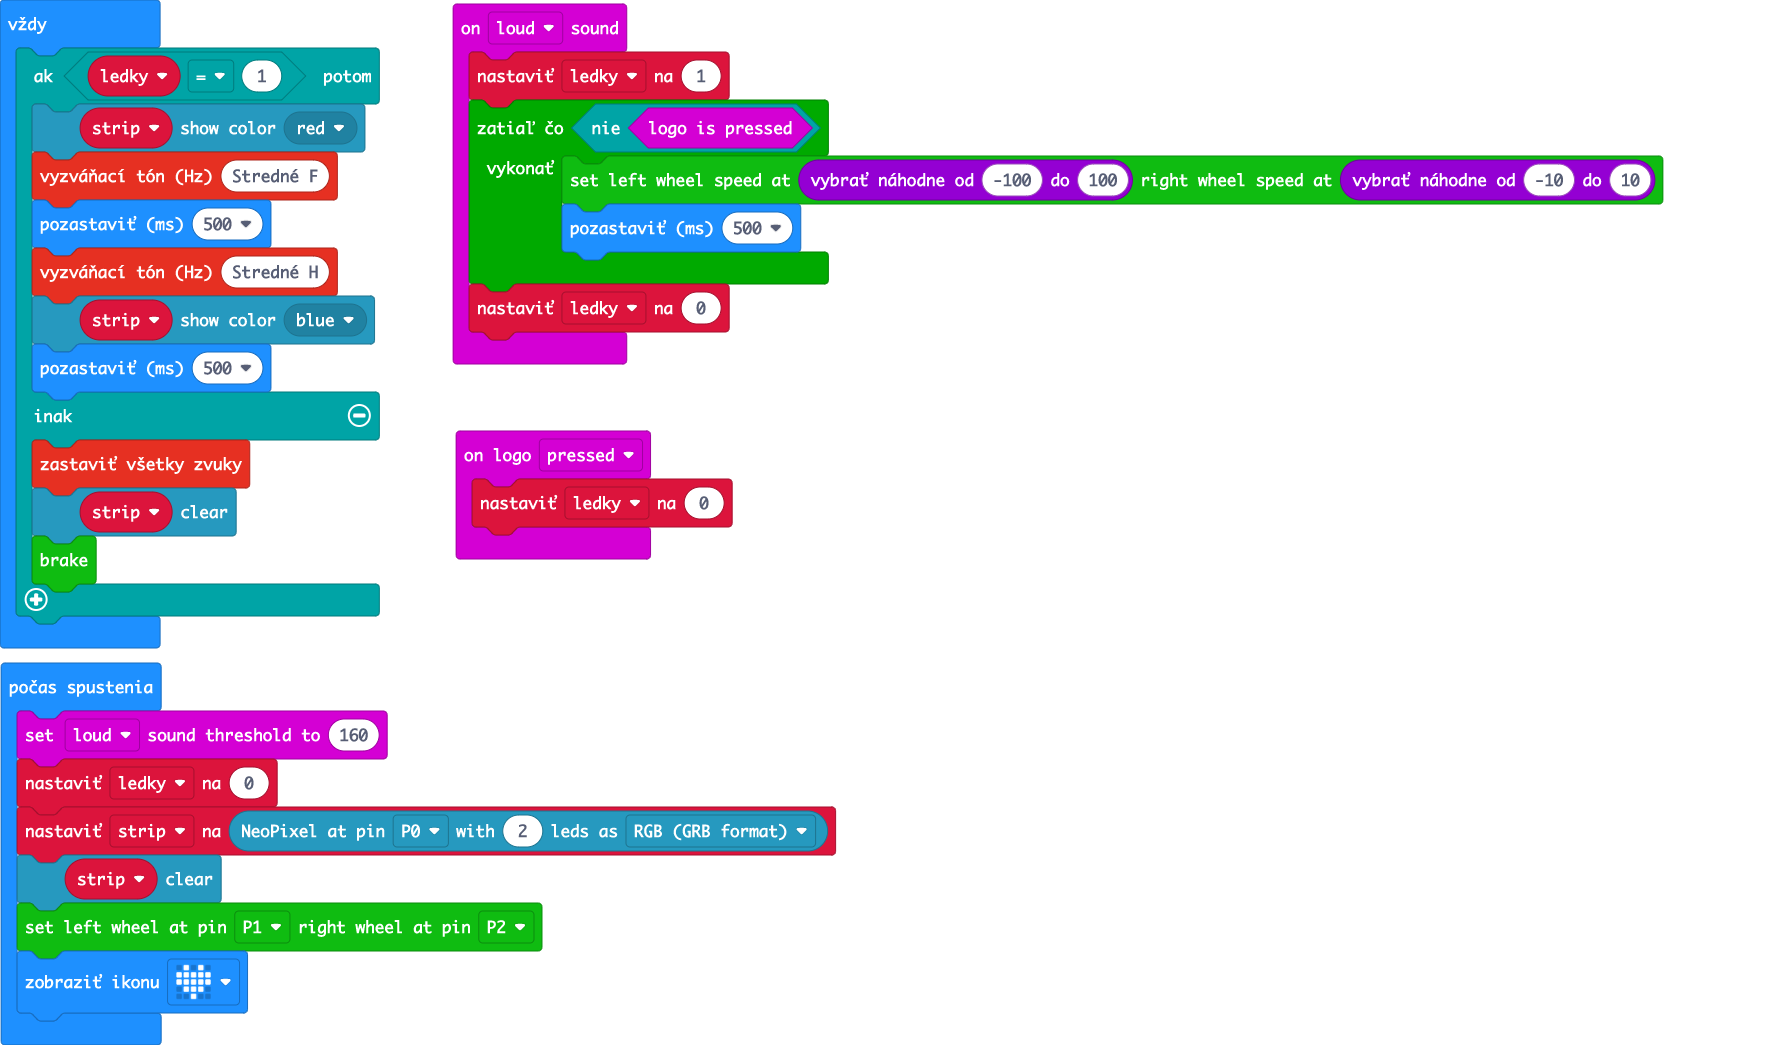
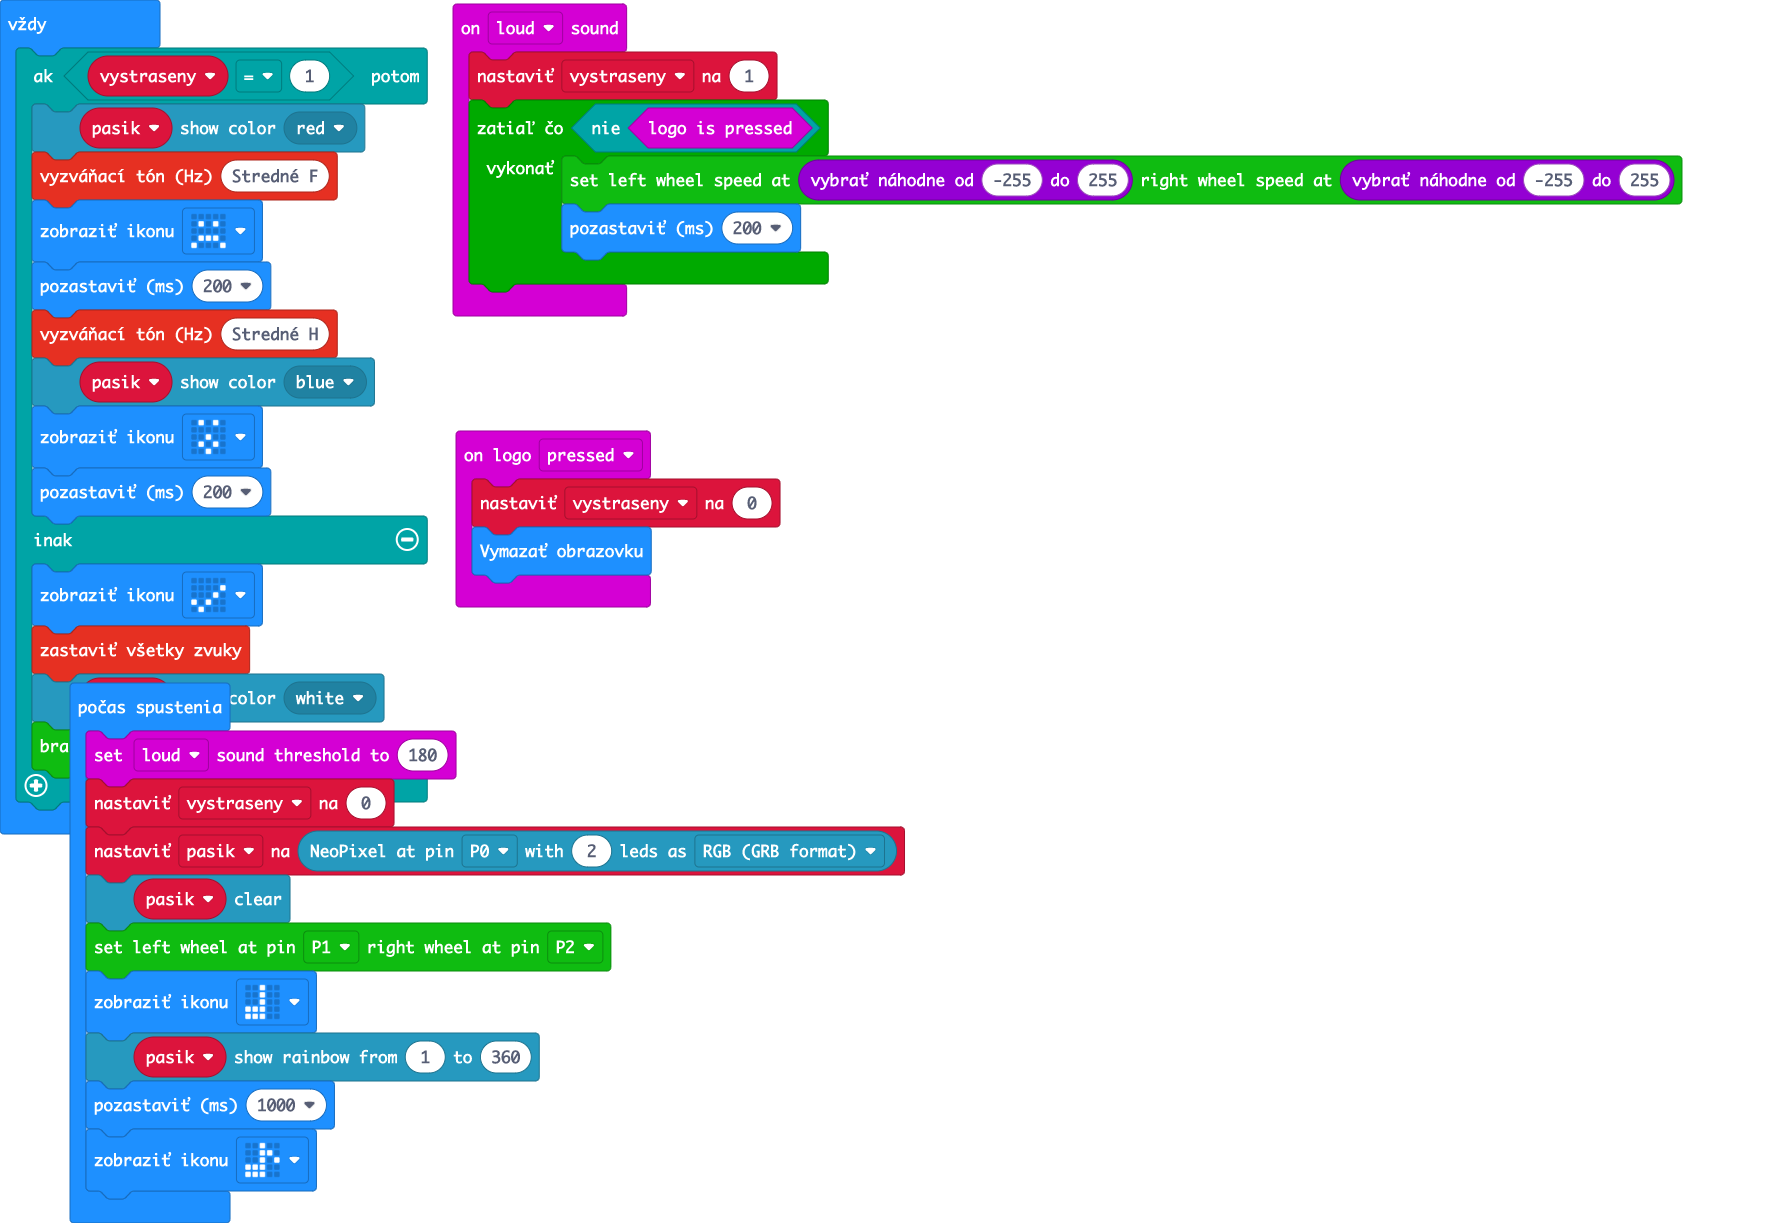
Aktualizovať main.blocks, main.ts

Changed region(s): [[0.0, 0.0, 0.9649, 1.0]]

diff --git a/main.ts b/main.ts
@@ -1,32 +1,38 @@
 input.onSound(DetectedSound.Loud, function () {
-    ledky = 1
+    vystraseny = 1
     while (!(input.logoIsPressed())) {
-        RingbitCar.freestyle(randint(-100, 100), randint(-10, 10))
-        basic.pause(500)
+        RingbitCar.freestyle(randint(-255, 255), randint(-255, 255))
+        basic.pause(200)
     }
-    ledky = 0
 })
 input.onLogoEvent(TouchButtonEvent.Pressed, function () {
-    ledky = 0
+    vystraseny = 0
+    basic.clearScreen()
 })
-let ledky = 0
-input.setSoundThreshold(SoundThreshold.Loud, 160)
-ledky = 0
-let strip = neopixel.create(DigitalPin.P0, 2, NeoPixelMode.RGB)
-strip.clear()
+let vystraseny = 0
+input.setSoundThreshold(SoundThreshold.Loud, 180)
+vystraseny = 0
+let pasik = neopixel.create(DigitalPin.P0, 2, NeoPixelMode.RGB)
+pasik.clear()
 RingbitCar.init_wheel(AnalogPin.P1, AnalogPin.P2)
-basic.showIcon(IconNames.Heart)
+basic.showIcon(IconNames.QuarterNote)
+pasik.showRainbow(1, 360)
+basic.pause(1000)
+basic.showIcon(IconNames.EigthNote)
 basic.forever(function () {
-    if (ledky == 1) {
-        strip.showColor(neopixel.colors(NeoPixelColors.Red))
+    if (vystraseny == 1) {
+        pasik.showColor(neopixel.colors(NeoPixelColors.Red))
         music.ringTone(349)
-        basic.pause(500)
+        basic.showIcon(IconNames.Sad)
+        basic.pause(200)
         music.ringTone(494)
-        strip.showColor(neopixel.colors(NeoPixelColors.Blue))
-        basic.pause(500)
+        pasik.showColor(neopixel.colors(NeoPixelColors.Blue))
+        basic.showIcon(IconNames.Surprised)
+        basic.pause(200)
     } else {
+        basic.showIcon(IconNames.Yes)
         music.stopAllSounds()
-        strip.clear()
+        pasik.showColor(neopixel.colors(NeoPixelColors.White))
         RingbitCar.brake()
     }
 })
